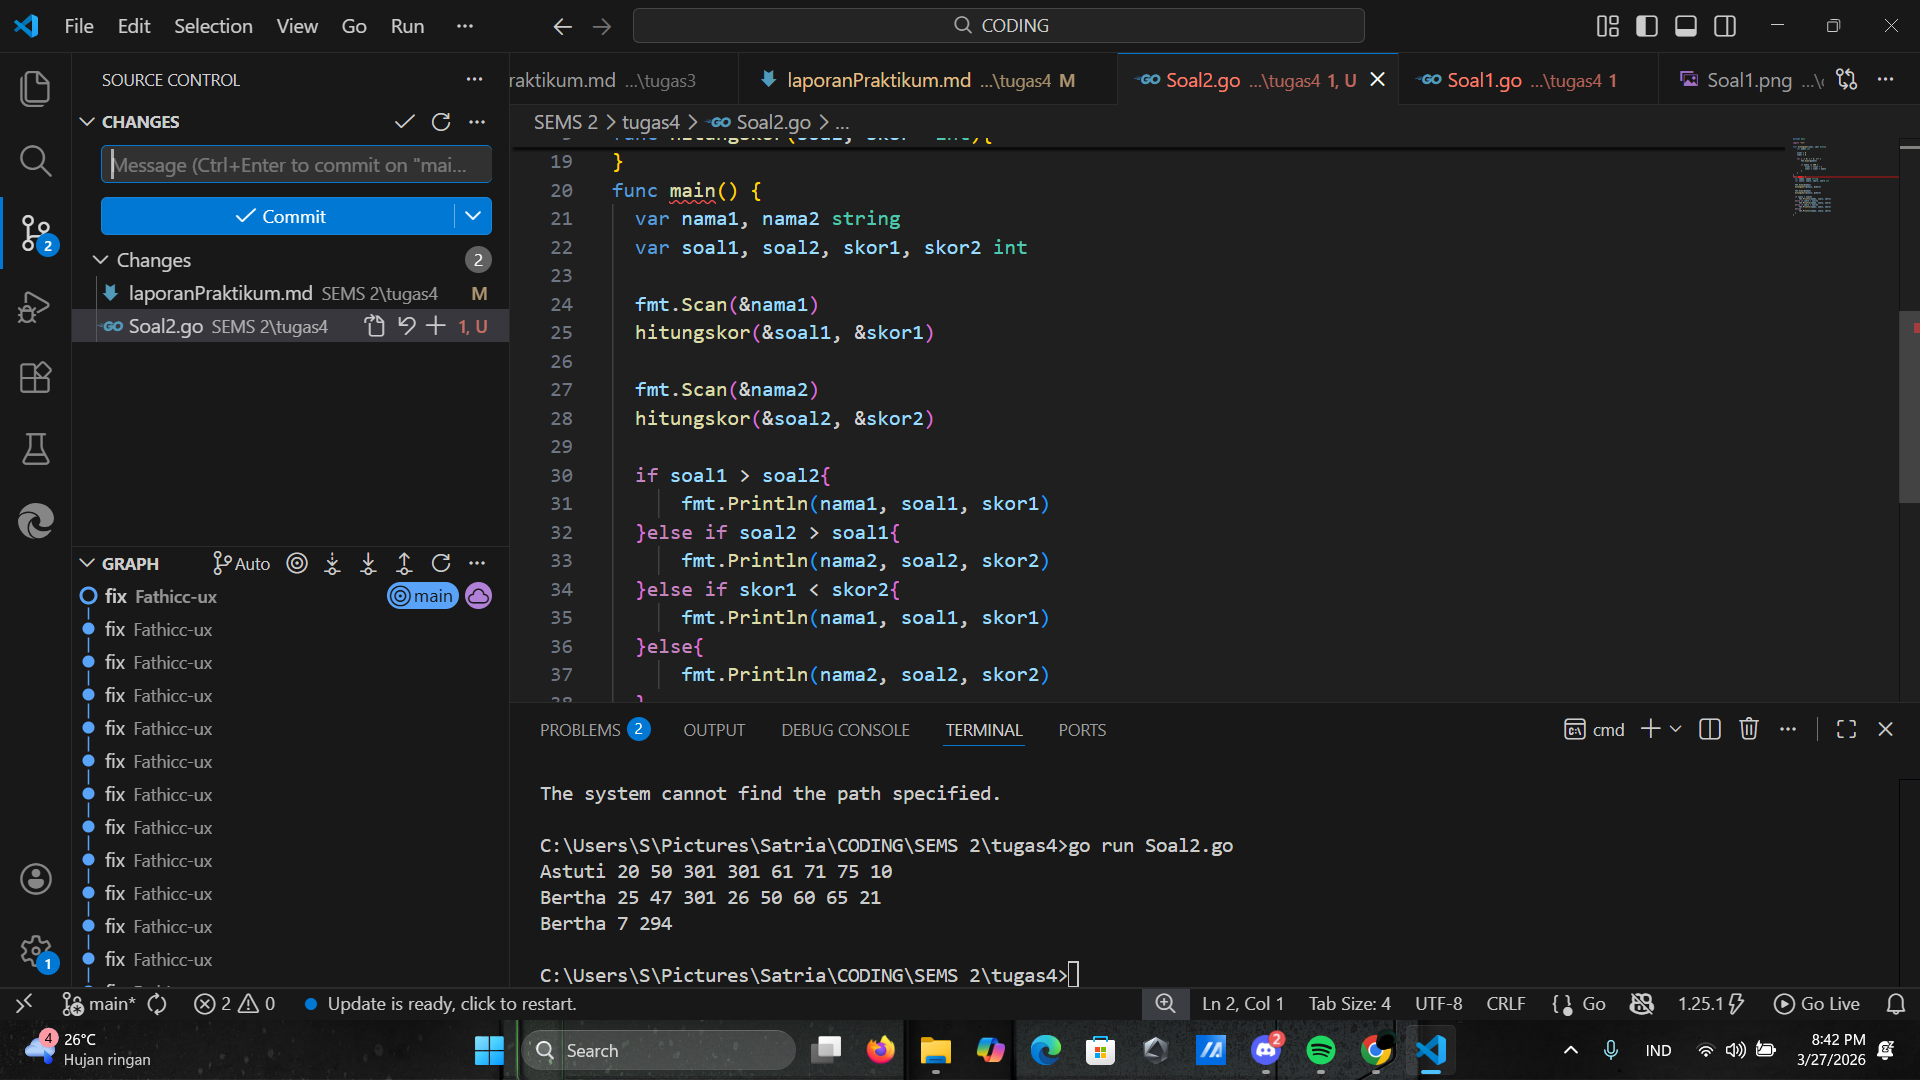
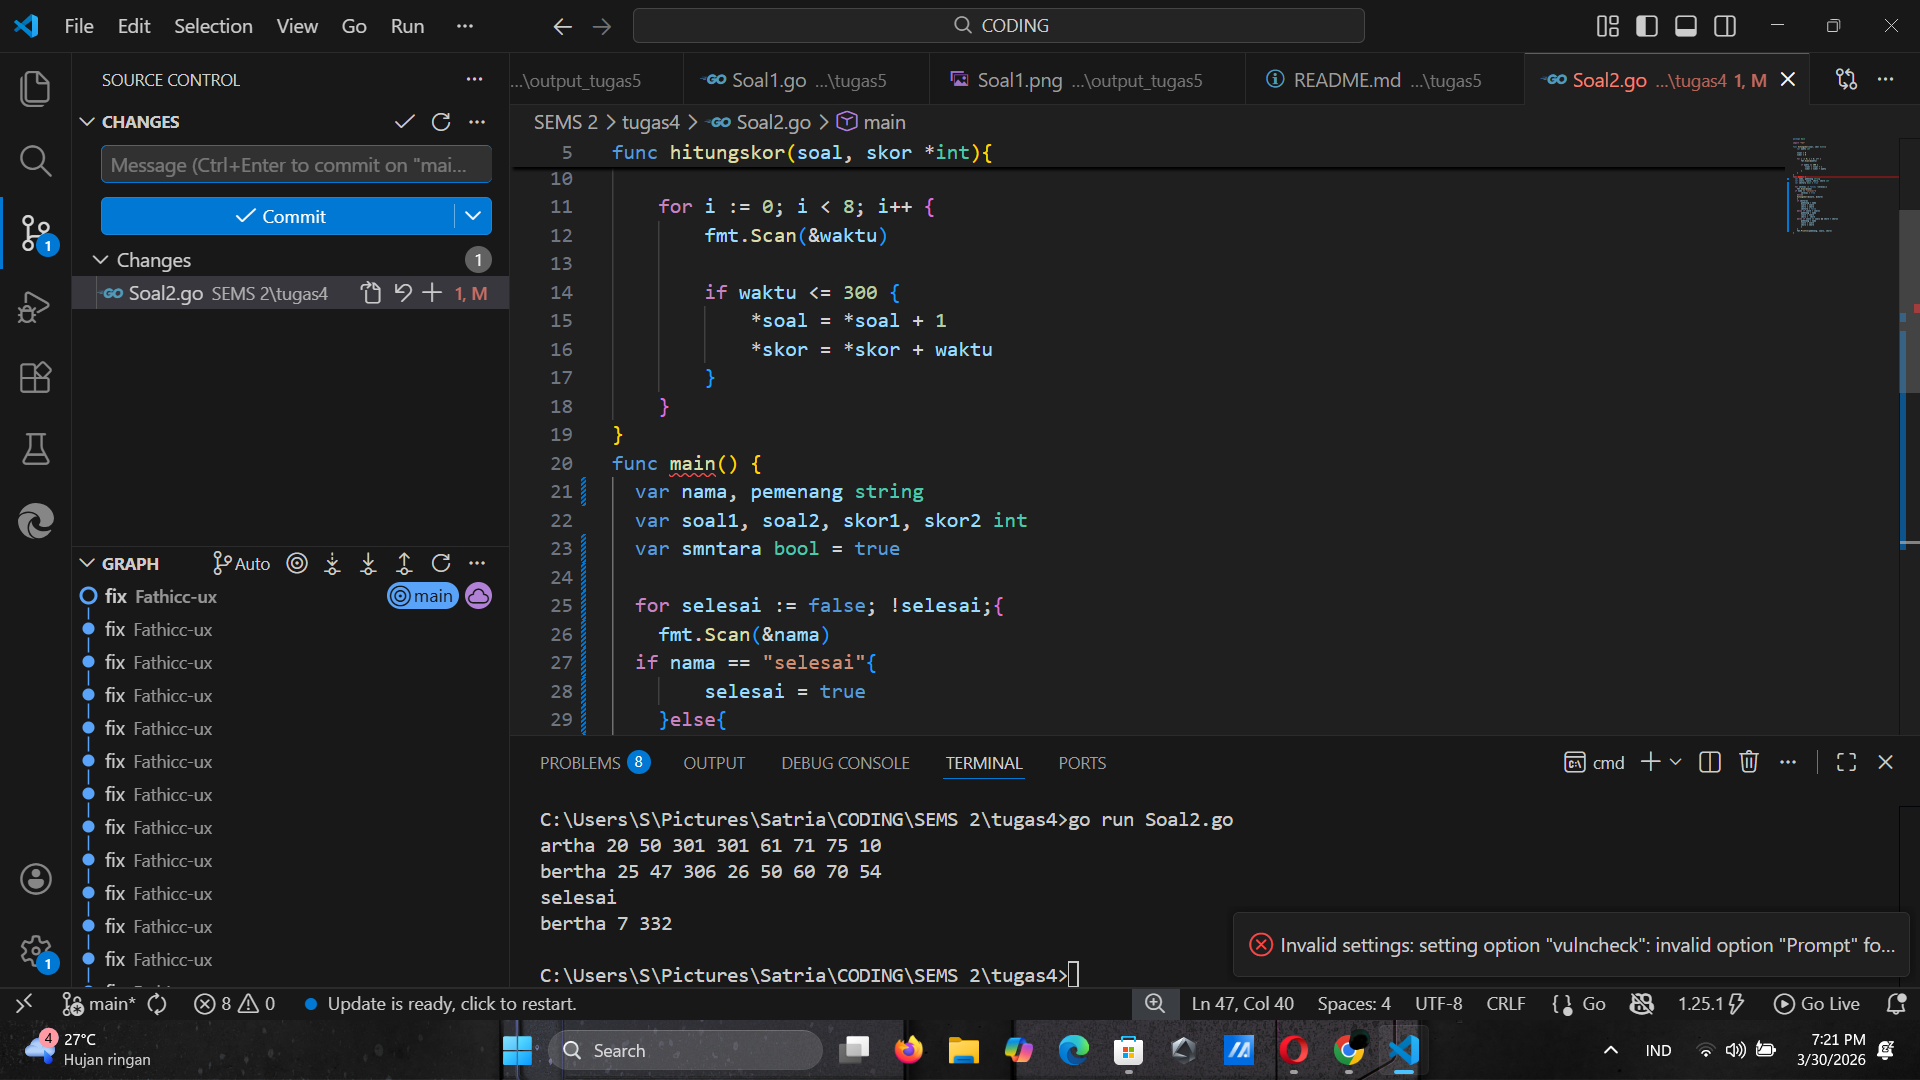
fix

diff --git a/tugas4/Soal2.go b/tugas4/Soal2.go
@@ -18,22 +18,25 @@ func hitungskor(soal, skor *int){
     }
 }
 func main() {
-  var nama1, nama2 string
+  var nama, pemenang string
   var soal1, soal2, skor1, skor2 int
-  
-  fmt.Scan(&nama1)
-  hitungskor(&soal1, &skor1)
-  
-  fmt.Scan(&nama2)
-  hitungskor(&soal2, &skor2)
-  
-  if soal1 > soal2{
-      fmt.Println(nama1, soal1, skor1)
-  }else if soal2 > soal1{
-      fmt.Println(nama2, soal2, skor2)
-  }else if skor1 < skor2{
-      fmt.Println(nama1, soal1, skor1)
-  }else{
-      fmt.Println(nama2, soal2, skor2)
-  }
+
+  for selesai := false; !selesai;{
+    fmt.Scan(&nama)
+  if nama == "selesai"{
+        selesai = true
+    }else{
+    hitungskor(&soal2, &skor2)
+    }
+    if skor2 > skor1 || (soal2 == soal1 && skor2 < skor1){
+        pemenang = nama
+        soal1 = soal2
+        skor1 = skor2
+    }else if soal2 > soal1{
+        pemenang = nama
+        soal1 = soal2
+        skor1 =  skor2
+        }
+    }
+    fmt.Println(pemenang, soal1, skor1)
 }

diff --git a/tugas4/laporanPraktikum.md b/tugas4/laporanPraktikum.md
@@ -103,24 +103,27 @@ func hitungskor(soal, skor *int){
     }
 }
 func main() {
-  var nama1, nama2 string
+  var nama, pemenang string
   var soal1, soal2, skor1, skor2 int
-  
-  fmt.Scan(&nama1)
-  hitungskor(&soal1, &skor1)
-  
-  fmt.Scan(&nama2)
-  hitungskor(&soal2, &skor2)
-  
-  if soal1 > soal2{
-      fmt.Println(nama1, soal1, skor1)
-  }else if soal2 > soal1{
-      fmt.Println(nama2, soal2, skor2)
-  }else if skor1 < skor2{
-      fmt.Println(nama1, soal1, skor1)
-  }else{
-      fmt.Println(nama2, soal2, skor2)
-  }
+
+  for selesai := false; !selesai;{
+    fmt.Scan(&nama)
+  if nama == "selesai"{
+        selesai = true
+    }else{
+    hitungskor(&soal2, &skor2)
+    }
+    if skor2 > skor1 || (soal2 == soal1 && skor2 < skor1){
+        pemenang = nama
+        soal1 = soal2
+        skor1 = skor2
+    }else if soal2 > soal1{
+        pemenang = nama
+        soal1 = soal2
+        skor1 =  skor2
+        }
+    }
+    fmt.Println(pemenang, soal1, skor1)
 }
 ```
 ### Output Unguided :
@@ -128,5 +131,4 @@ func main() {
 ##### Output 
 ![Screenshot Output Unguided 1_1](https://github.com/Fathicc-ux/109082530029-Fathi-satriani-al/blob/main/tugas4/output_tugas4/Soal2.png)
 [penjelasan]
-program ini digunakan untuk menghitung jumlah soal dan waktu dari setiap peserta kompetisi. Setiap soal akan di periksa, apabila waktu selesai <=300 detik maka akan dihitung jika lebih tidak di hitung. Pemenang ditentukan oleh banyak soal yang dikerjakan, jika banyak soal yang dikerjakan sama maka dihitung dari waktu yang tercepat. func hitungskor terdapat parameter *soal untuk menyimpan jumlah soal dan *skor untuk menyimpan waktu, lalu masuk ke if jika <= 300 soal + 1 dan skor waktu
-lalu program meminta input 2 peserta dengan format: nama, jumlah soal, skor(waktu). Lalu pemenangnya di tentukan dari banyaknya soal yang di kerjakan, jika jumlahnya sama maka dihitung dari yang tercepat.
+Program ini dibuat untuk mencari pemenang dari suatu kompetisi, fungsi hitungskor digunakan untuk menghitung jumlah soal yang berhasil dikerjakan dan total waktu (skor) yang diperoleh. Aturan Penentuan pemenang: 1. yang mengerjakan soal lebih banyak akan menjadi pemenang. 2. Jika jumlah soal yang dikerjakan sama, pemenang ditentukan dari waktu yang tercepat (skor yang lebih kecil). Program akan terus berjalan (looping) dan berhenti saat input nama == "selesai", program akan terus membandingkan jumlah soal dan skor peserta yang telah di inputkan jika ada yang lebih sedikit waktu (skor) dan jumlah soalnya sesuai aturan penentuan pemenang maka peserta tersebut yang akan menjadi pemenang. Program akan mencetak nama pemenang, jumlah pemenang dan banyak skor saat input nama == "selesai"
